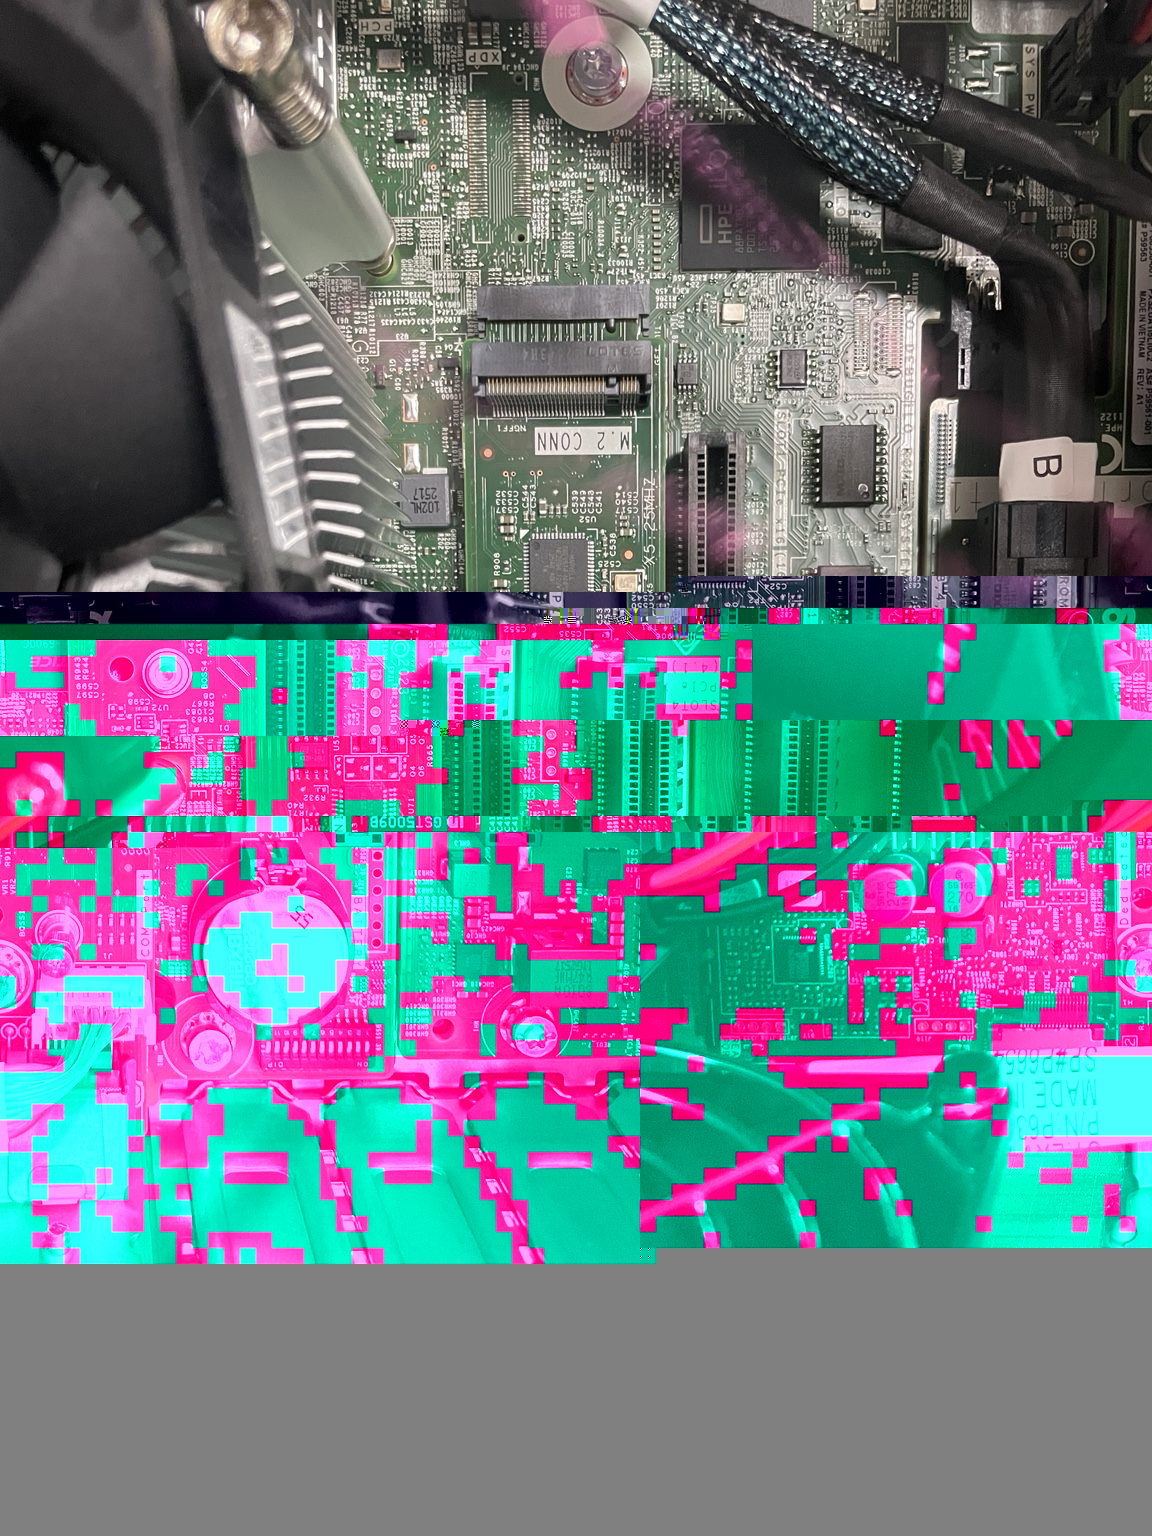
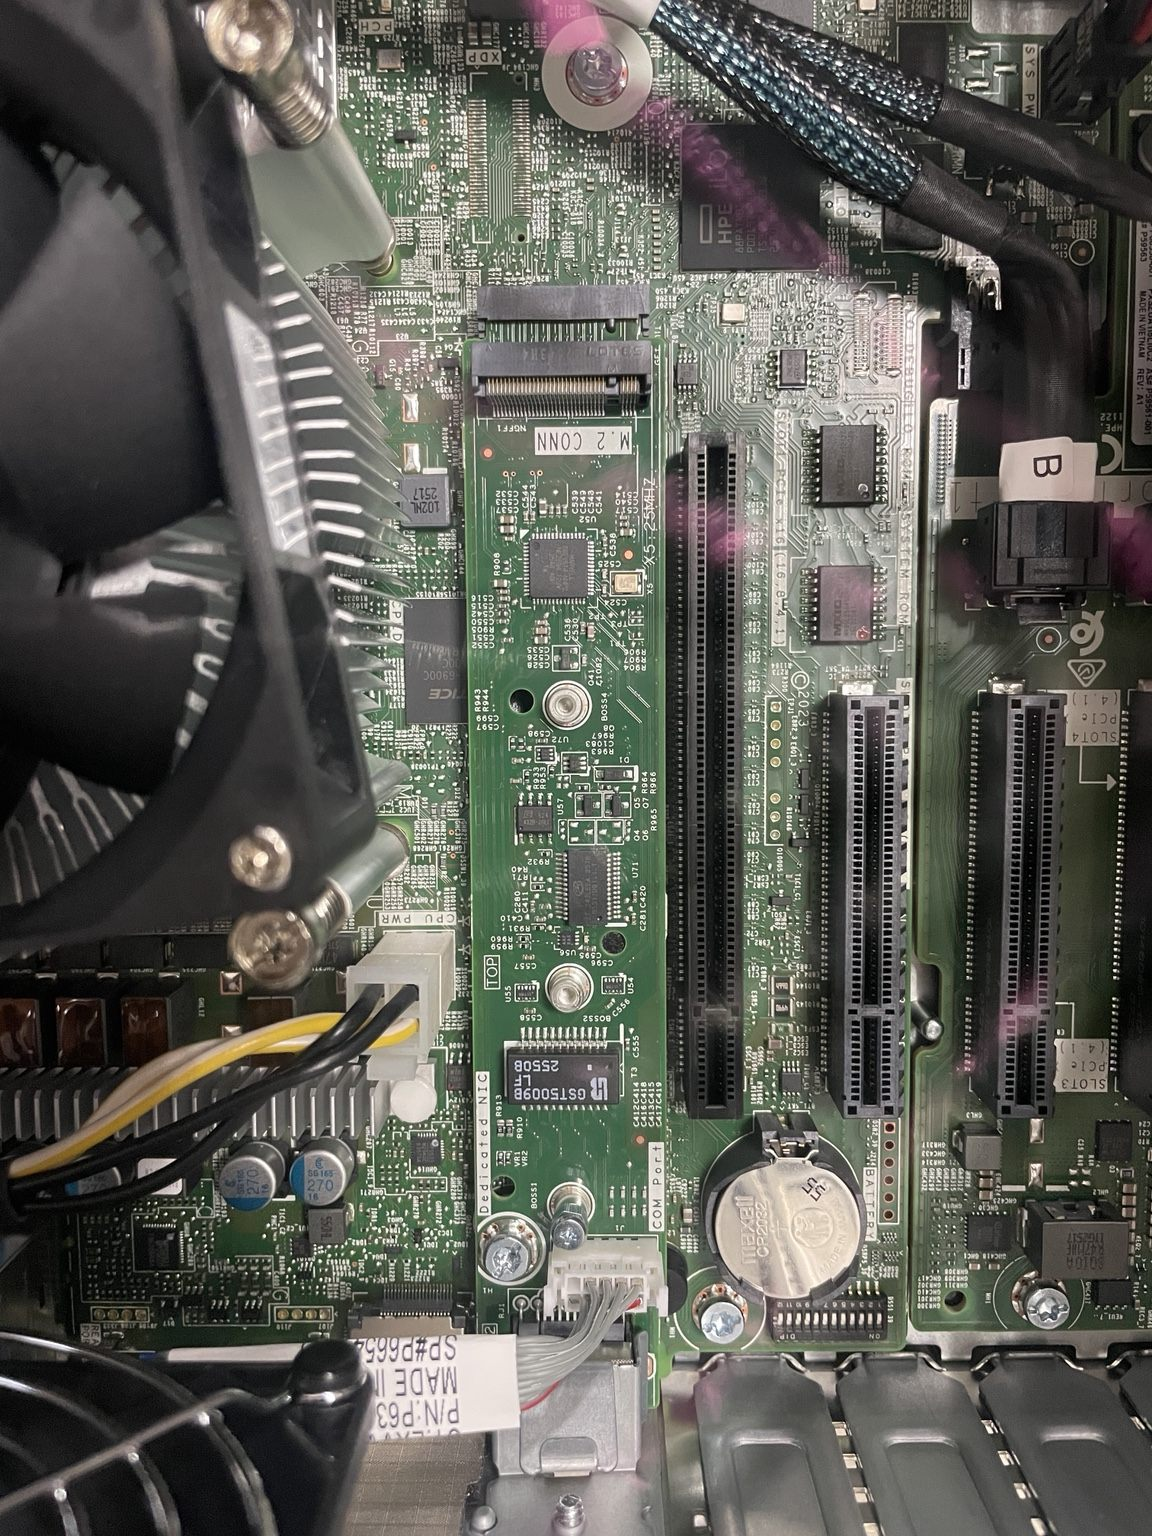
docs: sync kbwangtw knowledge base

diff --git a/docs/pve/synology-dp340-pve-cluster-validation.md b/docs/pve/synology-dp340-pve-cluster-validation.md
@@ -1,0 +1,206 @@
+---
+layout: default
+title: "Synology DP340 備份還原 PVE Cluster：SOP 驗證計畫"
+date: 2026-09-02
+categories: [PVE, Synology, Backup, DR]
+---
+
+<style>
+.kb-hero{padding:2rem;border-radius:18px;background:linear-gradient(135deg,#15324a,#245f73);color:#fff;margin:1rem 0 1.5rem}.kb-hero h1{margin:0 0 .75rem;color:#fff;line-height:1.25}.kb-hero p{margin:.4rem 0;max-width:55rem}.kb-badges{display:flex;flex-wrap:wrap;gap:.5rem;margin-top:1rem}.kb-badge{display:inline-block;padding:.3rem .65rem;border:1px solid rgba(255,255,255,.35);border-radius:999px;background:rgba(255,255,255,.1);font-size:.85rem}.kb-alert{border-left:5px solid #d97706;background:#fff7ed;padding:1rem 1.1rem;border-radius:8px;margin:1.25rem 0}.kb-alert strong{color:#9a3412}.kb-toc{background:#f5f7f8;border:1px solid #d8e0e5;border-radius:14px;padding:1rem 1.25rem;margin:1.5rem 0}.kb-toc ol{columns:2;column-gap:2rem;margin-bottom:0}.kb-grid{display:grid;grid-template-columns:repeat(3,minmax(0,1fr));gap:1rem;margin:1rem 0}.kb-card{border:1px solid #d8e0e5;border-radius:14px;padding:1rem;background:#fff;box-shadow:0 2px 8px rgba(21,50,74,.06)}.kb-card h3{margin-top:0;color:#15324a}.kb-flow{display:grid;grid-template-columns:repeat(3,minmax(0,1fr));gap:.8rem;margin:1rem 0}.kb-flow>div{padding:1rem;border-radius:12px;background:#eef5f7;border-top:4px solid #245f73}.test-card{border:1px solid #d8e0e5;border-radius:16px;margin:1.25rem 0;overflow:hidden}.test-head{display:flex;align-items:center;gap:.8rem;background:#15324a;color:#fff;padding:1rem 1.2rem}.test-num{display:grid;place-items:center;min-width:2.2rem;height:2.2rem;border-radius:50%;background:#fff;color:#15324a;font-weight:700}.test-body{padding:1.1rem 1.25rem}.test-body h4{margin-bottom:.35rem}.verify-tag{display:inline-block;background:#fff3cd;color:#664d03;border:1px solid #ffecb5;border-radius:6px;padding:.25rem .5rem;font-size:.85rem;font-weight:600}.result-table{display:block;overflow-x:auto;white-space:nowrap}.checkline{letter-spacing:.08em}.kb-signoff{display:grid;grid-template-columns:repeat(3,1fr);gap:1rem;margin-top:1.5rem}.kb-signoff>div{border-bottom:1px solid #666;padding:1.2rem .25rem .25rem}.print-only{display:none}@media(max-width:760px){.kb-grid,.kb-flow,.kb-signoff{grid-template-columns:1fr}.kb-toc ol{columns:1}.kb-hero{padding:1.35rem}.test-head{align-items:flex-start}.result-table{font-size:.88rem}}@media print{.site-header,.site-footer,.kb-toc{display:none!important}.wrapper{max-width:none!important}.kb-hero{background:none!important;color:#000;border:2px solid #333;padding:1rem}.kb-hero h1{color:#000}.kb-card,.test-card{box-shadow:none;break-inside:avoid}.test-head{background:#eee!important;color:#000}.print-only{display:block}a{color:#000;text-decoration:none}.result-table{white-space:normal;font-size:9pt}h2{break-after:avoid}}
+</style>
+
+<div class="kb-hero">
+  <h1>Synology DP340 備份還原 PVE Cluster<br>SOP 驗證計畫</h1>
+  <p>適用於 3-Node Proxmox VE Cluster；每個 Node 配置 2 張 2.5GbE，其中 Service／Management 獨立，Backup Data 與 Corosync 共用另一張介面。</p>
+  <div class="kb-badges"><span class="kb-badge">Backup & Recovery</span><span class="kb-badge">Network Isolation</span><span class="kb-badge">HA / DR Drill</span><span class="kb-badge">Ransomware Readiness</span></div>
+</div>
+
+<div class="kb-alert"><strong>文件定位：</strong>本頁是上線前驗證計畫，不是產品功能保證。畫面名稱、支援的 Proxmox VE 版本、API 權限、CBT／去重、Instant Restore 傳輸協定、背景回遷、不可變備份與管理員刪除限制，均需依 <strong>Synology ActiveProtect / Proxmox VE 實際版本驗證</strong>，並以當版官方文件與實機 PoC 為準。</div>
+
+<nav class="kb-toc" aria-label="章節導覽">
+<strong>章節導覽</strong>
+<ol>
+  <li><a href="#scope">驗證範圍與準入條件</a></li>
+  <li><a href="#network">雙介面拓撲與邏輯分流</a></li>
+  <li><a href="#prepare">前置準備與串接 SOP</a></li>
+  <li><a href="#tests">五個驗證測試案例</a></li>
+  <li><a href="#signoff">Sign-off 驗證結果</a></li>
+  <li><a href="#operations">長期維運與容量管理</a></li>
+</ol>
+</nav>
+
+<h2 id="scope">1. 驗證範圍與準入條件</h2>
+
+本計畫驗證「Service／Management 使用獨立 2.5GbE，Backup Data 與 Corosync 共用另一張 2.5GbE」的設計，並量測共享介面壅塞時的叢集穩定性、備份、增量、還原與防勒索控制。執行破壞性測試前，須取得變更核准並確認測試 VM 可刪除／可中斷。
+
+| 準入檢查 | 通過條件 |
+|---|---|
+| PVE Cluster | 3 節點 online、`pvecm status` 顯示 quorate、無既存 Corosync 告警 |
+| 儲存與網路 | 目標 storage 健康；兩張 2.5GbE 的 VLAN／路由／ACL、共享介面的 QoS 與速率限制已記錄 |
+| DP340 / APM | 韌體、APM 版本、授權與 Proxmox VE 相容性已確認 |
+| 回復點 | 3 台測試 VM 均已標記；含 Windows／Linux，且無正式服務依賴 |
+| 安全與稽核 | Token Secret 不進入文件；已啟用時間同步、工作與系統日誌 |
+| 回復方案 | 刪除／關機演練具有回復步驟、停止條件、聯絡人與維護窗口 |
+
+<h2 id="network">2. 雙 2.5GbE 拓撲與 Data／Corosync 邏輯分流</h2>
+
+<div class="kb-alert"><strong>架構重點：</strong>PVE Node 的第二張網卡雖接到 10G 交換器，但網卡本身只有 2.5GbE，因此單一 Node 的實際線速上限仍約為 2.5Gbps，且 Backup Data 與 Corosync 會競爭同一條實體連線。此架構沒有 Data／Corosync 的實體隔離，必須用 VLAN、QoS、備份速率限制與錯峰排程保護叢集心跳。</div>
+
+<div class="kb-flow">
+  <div><strong>NIC 1 — Service / Management</strong><br>PVE 2.5GbE 接 2.5G 交換器；承載 VM Service、PVE 管理與一般維運流量。</div>
+  <div><strong>NIC 2 — Backup Data</strong><br>PVE 2.5GbE 接 10G 交換器；以 Data VLAN／IP 連接 DP340。Node 端上限仍為 2.5Gbps。</div>
+  <div><strong>NIC 2 — Corosync</strong><br>與 Backup Data 共用實體介面及上行，但使用獨立 VLAN／子網；需以 QoS 優先保障心跳。</div>
+</div>
+
+```text
+每個 PVE Node
+  ├─ NIC 1：2.5GbE ── 2.5G Switch ── Service / Management VLAN
+  └─ NIC 2：2.5GbE ── 10G Switch
+                         ├─ Backup Data VLAN ── DP340 10G 介面
+                         └─ Corosync VLAN ───── PVE Cluster 心跳
+
+注意：交換器側是 10G，不會把 PVE 的 2.5GbE NIC 變成 10Gbps。
+Data 與 Corosync 雖使用不同 VLAN，仍共用同一張 NIC 與 2.5Gbps 頻寬。
+```
+
+<div class="kb-grid">
+  <div class="kb-card"><h3>VLAN 與路由</h3>Data 與 Corosync 使用不同 VLAN／子網；NIC 2 不設定非預期 default route。以路由表、VLAN tag 與實際連線來源驗證。</div>
+  <div class="kb-card"><h3>QoS 與限速</h3>在交換器與可用的主機／備份端設定 Corosync 高優先級；備份先以低於 2.5Gbps 的保守上限測試，再逐步提高。</div>
+  <div class="kb-card"><h3>Corosync 基線</h3>備份前後比對 latency、retransmit、packet loss 與 quorum；發生節點不穩或仲裁異常立即停止並降低備份並行度／頻寬。</div>
+</div>
+
+> 「備份走 Data VLAN」須以介面流量、VLAN、連線來源／目的位址與路由紀錄共同證明；僅在 APM 輸入 Data IP 不足以作為證據。VLAN 可分隔廣播域與政策，但無法消除共用 NIC 的頻寬競爭。
+
+<h2 id="prepare">3. 前置準備與串接 SOP</h2>
+
+### 3.1 建立 PVE API Token 最小權限
+
+1. 在 PVE Web UI 進入 **Datacenter → Permissions → Roles**。
+2. 建立專用角色，例如 `DP340-Backup-Role`；以當版整合文件所列權限為基準。初始候選權限可包含 `VM.Backup`、`VM.Audit`、`Datastore.Audit`／`Datacenter.Audit`、`Sys.Audit`，但名稱與必要範圍須以實際 PVE 版本確認。
+3. 在 **Users** 建立專用服務帳號，例如 `dp340-backup@pve`，不使用 `root@pam`。
+4. 在 **API Tokens** 產生 Token。只在密碼庫保存 Token ID 與 Secret；Secret 通常只顯示一次。
+5. 將角色套用在最小必要路徑，並確認「Privilege Separation」設定是否影響 Token 權限繼承。
+6. 先以唯讀／探索操作測試，再執行備份。若缺權限，只補足錯誤訊息所證實的必要權限，不直接授予 Administrator。
+
+<span class="verify-tag">需依 Synology ActiveProtect / Proxmox VE 實際版本驗證</span> DP340 所需的精確權限集合、是否支援 API Token、Token 格式與叢集探索行為。
+
+### 3.2 設定 DP340 與 APM 串接
+
+1. 從 Service／Management 網路登入 ActiveProtect Manager。
+2. 在 DP340 的 10G 介面配置 Data 網段靜態 IP；檢查 MTU、DNS、NTP、路由與防火牆。PVE Node 端仍以 2.5GbE 連線。
+3. 在保護來源新增 Proxmox VE；輸入 PVE 節點的 **Data 網段 IP** 與專用 Token。
+4. 驗證 TLS 憑證／指紋，不以永久關閉驗證作為正式方案。
+5. 確認可探索預期的 3 個節點與測試 VM，且沒有非預期資產。
+6. 在 PVE 與交換器側確認實際 API 與資料連線使用正確介面；將截圖、時間與介面計數器納入證據。
+
+<span class="verify-tag">需依 Synology ActiveProtect / Proxmox VE 實際版本驗證</span> APM 選單名稱、Proxmox VE 保護來源支援版本、叢集自動探索方式及憑證驗證流程。
+
+<h2 id="tests">4. 五個驗證測試案例</h2>
+
+<section class="test-card"><div class="test-head"><span class="test-num">01</span><strong>2.5G 首次全備份與共享 Corosync 壓力測試</strong></div><div class="test-body">
+<h4>目的</h4>證明備份資料使用 NIC 2 的 Data VLAN，並確認與其共用實體介面的 Corosync 在備份負載下仍穩定。
+<h4>步驟</h4>
+1. 從每個節點選 1 台測試 VM；Windows 若採應用程式一致性，先確認 VSS 狀態與產品支援方式。
+2. 記錄備份前 `pvecm status`、Corosync 延遲／丟包、介面計數器及 storage I/O。
+3. 先限制單一備份工作與保守頻寬，手動執行首次備份；同時監看 PVE 共用 NIC、Data／Corosync VLAN、DP340 10G NIC 與交換器埠。穩定後才逐步增加負載。
+4. 完成後再取一次叢集、介面、備份工作與容量證據。
+<h4>判定</h4>備份成功；主要流量出現在 Data VLAN；Corosync 無新增告警、quorum 變化或可歸因於測試的延遲／丟包。吞吐量以 2.5GbE Node 端、協定開銷與 storage 實測解釋，不以 10G 交換器線速作為目標。
+<h4>記錄</h4>邏輯資料量、實際傳輸量、開始／結束時間、平均／峰值 Gbps、DP340 寫入量、Corosync latency／loss、工作 ID。
+</div></section>
+
+<section class="test-card"><div class="test-head"><span class="test-num">02</span><strong>增量備份、異動區塊與去重</strong></div><div class="test-body">
+<h4>目的</h4>量測第二次備份的傳輸量與容量節省，不預設 CBT 或全域去重一定適用。
+<h4>步驟</h4>
+1. 在 3 台測試 VM 寫入可校驗的新資料，記錄大小與 checksum。
+2. 觸發第二次備份，記錄執行時間、來源 Data NIC 傳輸量與 DP340 容量變化。
+3. 比較首次與第二次備份，並從 APM 擷取其所提供的去重／壓縮／儲存效率指標。
+<h4>判定</h4>第二次備份成功且新資料可由還原點取回；增量與容量節省比率採實測數據。<span class="verify-tag">需依 Synology ActiveProtect / Proxmox VE 實際版本驗證</span> CBT、全域去重的支援範圍、統計口徑與重設條件。
+<h4>記錄</h4>異動量、傳輸量、增量時間、儲存成長量、去重／壓縮比、checksum。
+</div></section>
+
+<section class="test-card"><div class="test-head"><span class="test-num">03</span><strong>即時／快速還原與 RTO 量測</strong></div><div class="test-body">
+<h4>目的</h4>驗證當版產品可用的最快還原流程，量測「提交還原」到「服務可登入」的實際 RTO。
+<h4>步驟</h4>
+1. 先記錄原 VMID、MAC、IP、storage 與服務驗證方式。優先隔離或改用新 VMID，避免與正式網路衝突。
+2. 刪除或隔離測試 VM，於 APM 選擇當版實際提供的還原模式與 PVE 目標。
+3. 分別記錄提交、VM 可啟動、OS ready、應用服務可登入的時間。
+4. 觀察資料路徑、暫存 storage、效能與後續資料落地／回遷狀態；完成後驗證資料一致性。
+<h4>判定</h4>還原 VM 在核准的 RTO 目標內提供服務，且資料校驗成功。原始草案中的「1–2 分鐘」、「以 NFS 掛載」與「自動 Live Migration 回本地」均不是預設保證。
+<h4>必要確認</h4><span class="verify-tag">需依 Synology ActiveProtect / Proxmox VE 實際版本驗證</span> 是否支援 Instant Restore、實際協定、PVE storage 呈現方式、背景回遷是否自動，以及適用的 VM／storage／版本限制。
+</div></section>
+
+<section class="test-card"><div class="test-head"><span class="test-num">04</span><strong>跨節點完整還原</strong></div><div class="test-body">
+<h4>目的</h4>模擬 Node A 不可用，將測試 VM 完整還原至健康的 Node B 或 C。
+<h4>步驟</h4>
+1. 先確認 cluster、quorum、HA、Ceph／LVM-thin 與目標容量健康。
+2. 以核准方式關閉或隔離 Node A；不得在未評估 fencing／HA 影響時直接斷電。
+3. 從 DP340 選擇完整還原，指定健康節點、新 VMID（建議）與目標 storage。
+4. 啟動前核對 MAC、IP、bridge 與 guest 內靜態網路；啟動後驗證 OS、服務及 checksum。
+<h4>判定</h4>完整還原成功、服務網路經人工確認後正常，資料一致性通過；記錄實際 RTO／RPO。跨節點支援矩陣與網路設定保留行為 <span class="verify-tag">需依 Synology ActiveProtect / Proxmox VE 實際版本驗證</span>。
+</div></section>
+
+<section class="test-card"><div class="test-head"><span class="test-num">05</span><strong>不可變備份與權限邊界</strong></div><div class="test-body">
+<h4>目的</h4>確認鎖定期間內，不同權限角色可執行／不可執行的刪除、縮短保留期與系統管理行為。
+<h4>步驟</h4>
+1. 若當版 APM 提供不可變設定，在測試策略設 7 天；取得一個明確標示鎖定到期日的還原點。
+2. 分別以備份操作員、一般管理員與最高權限角色測試刪除，並嘗試縮短保留期；不要測試重設、抹除或破壞設備。
+3. 保存 UI 訊息、audit log、事件代碼、帳號角色與時間戳。
+4. 驗證遭拒後還原點仍可列出並可執行測試還原。
+<h4>判定</h4>結果必須逐角色記錄。不得僅因一般 UI 刪除被拒，就推論遭入侵的最高權限管理員、設備重設或其他控制面也無法破壞資料。
+<h4>必要確認</h4><span class="verify-tag">需依 Synology ActiveProtect / Proxmox VE 實際版本驗證</span> 不可變功能是否存在、授權／儲存限制、鎖定是否可延長或縮短、哪些角色可繞過，以及設備重設／保固維修情境的行為。
+</div></section>
+
+<h2 id="signoff">5. Sign-off 驗證結果表格</h2>
+
+<div class="result-table">
+
+| ID | 測試項目 | 驗收基準 | 實際結果／證據 | 數據記錄 | 判定 |
+|---|---|---|---|---|---|
+| 01 | 首次全備份／網路隔離 | 備份成功；流量走 Data；Corosync 穩定 | __________________ | 容量 ___ GB；時間 ___ min；平均／峰值 ___ / ___ Gbps；loss ___ | ☐ Pass ☐ Fail |
+| 02 | 增量／去重 | 新資料可還原；效率以實測呈現 | __________________ | 異動 ___ GB；傳輸 ___ GB；節省比 ___；時間 ___ min | ☐ Pass ☐ Fail |
+| 03 | 即時／快速還原 | 服務與資料驗證成功；RTO 符合核准目標 | __________________ | VM boot ___ sec；service RTO ___ sec；RPO ___ | ☐ Pass ☐ Fail |
+| 04 | 跨節點完整還原 | B／C 節點啟動；網路與 checksum 正常 | __________________ | 還原 ___ min；資料 ___ GB；checksum ______ | ☐ Pass ☐ Fail |
+| 05 | 不可變／權限邊界 | 各角色結果與 audit log 完整；還原點可用 | __________________ | 角色 ______；事件碼 ______；到期日 ______ | ☐ Pass ☐ Fail |
+
+</div>
+
+### 例外與風險接受
+
+| 未通過／條件式通過項目 | 影響 | 暫行措施 | 負責人 | 到期日 |
+|---|---|---|---|---|
+|  |  |  |  |  |
+|  |  |  |  |  |
+
+<div class="kb-signoff"><div>執行人／日期</div><div>系統負責人／日期</div><div>變更核准人／日期</div></div>
+
+<p class="print-only">文件列印時間：________________　APM 版本：________________　PVE 版本：________________</p>
+
+<h2 id="operations">6. 長期維運與容量管理建議</h2>
+
+<div class="kb-grid">
+  <div class="kb-card"><h3>錯開備份窗口</h3>Data 與 Corosync 共用 2.5GbE，預設一次只跑一個 Node 的大型備份。可先以 Node A 01:00、B 02:30、C 04:00 為假設，再依 Corosync 與吞吐實測調整。</div>
+  <div class="kb-card"><h3>容量水位</h3>建立 70% 預警、80% 處置、90% 升級機制。容量門檻與可用容量不可硬套固定 14.5 TB，應依實際型號、RAID、保留政策與當版官方規格計算。</div>
+  <div class="kb-card"><h3>定期還原</h3>備份成功不等於可還原。至少每季抽測 VM boot、應用服務與 checksum；重大升級後追加測試。</div>
+  <div class="kb-card"><h3>權限與憑證</h3>Token 放密碼庫、限制來源、定期輪替；每季檢視角色與稽核紀錄。離職／職務異動立即撤銷。</div>
+  <div class="kb-card"><h3>版本管理</h3>升級 DP340／APM／PVE 前查相容矩陣、備份設定並保留回復方案；升級後重跑探索、備份與還原 smoke test。</div>
+  <div class="kb-card"><h3>3-2-1-1-0</h3>至少 3 份資料、2 種媒體、1 份異地、1 份離線或不可變、0 個未驗證錯誤；不可變機制需與管理控制面風險一併評估。</div>
+</div>
+
+### 每月／每季檢查節奏
+
+| 頻率 | 工作 |
+|---|---|
+| 每日 | 失敗工作、容量趨勢、硬體／磁碟、告警通道、時間同步 |
+| 每週 | 隨機還原檔案、工作時窗，以及共享 2.5GbE 上的 Data／Corosync 延遲、丟包與介面錯誤 |
+| 每月 | Token／角色檢視、容量預測、韌體與相容性公告、audit log 抽查 |
+| 每季 | 完整 VM 還原、跨節點 DR 演練、RTO／RPO 重測、Runbook 更新與簽核 |
+
+## 停止條件
+
+測試期間若出現 quorum 改變、Corosync 延遲／丟包異常、節點非預期 reboot／fencing、Ceph／主要 storage 進入非預期錯誤、DP340 容量達處置門檻，或還原 VM 可能與正式 IP／MAC 衝突，應立即停止新工作並依變更計畫復原；先保留證據，不直接重跑。
+
+---
+
+**文件狀態：** 待依現場 DP340、ActiveProtect Manager 與 Proxmox VE 版本完成 PoC 後簽核。  
+**敏感資訊：** 文件與截圖不得包含 Token Secret、密碼、Private Key、完整憑證或可重用的 Session。
+

diff --git a/index.md b/index.md
@@ -8,17 +8,18 @@ title: IT Knowledge Base
 ## 最新技術紀錄
 
 - [HPE ProLiant ML30 Gen11：硬體擴充、NVMe UEFI 驗證與儲存規劃](docs/hardware/hpe/ml30-gen11/)
+- [Synology DP340 備份還原 PVE Cluster：SOP 驗證計畫](docs/pve/synology-dp340-pve-cluster-validation/)
 - [Proxmox VE / Proxmox Backup Server 繁體中文通知模板安裝](docs/pve/proxmox-zh-tw-notification/)
 - [ProxCenter + PBS Restore／DR SOP：LXC 實戰紀錄](docs/pve/proxcenter-pbs-restore-dr-runbook/)
 - [ProxCenter 執行 PVE／Ceph Rolling Update：疑難排解紀錄](docs/pve/proxcenter-ceph-rolling-update/)
 
 ## 文件分類
 
-- **PVE**：[繁體中文通知模板安裝](docs/pve/proxmox-zh-tw-notification/)、叢集、HA、虛擬機、儲存與升級
+- **PVE**：[DP340 備份還原驗證計畫](docs/pve/synology-dp340-pve-cluster-validation/)、[繁體中文通知模板安裝](docs/pve/proxmox-zh-tw-notification/)、叢集、HA、虛擬機、儲存與升級
 - **PBS**：[繁體中文通知模板安裝](docs/pve/proxmox-zh-tw-notification/)、[備份、Restore 與 DR 演練](docs/pve/proxcenter-pbs-restore-dr-runbook/)、驗證與保留政策
 - **ProxCenter**：資產管理、SSH 整合、[Rolling Update](docs/pve/proxcenter-ceph-rolling-update/) 與 [Restore／DR](docs/pve/proxcenter-pbs-restore-dr-runbook/)
 - **Ceph**：健康狀態、OSD、維護旗標與復原
-- **Synology**：儲存、快照、備份與網路服務
+- **Synology**：[DP340 × PVE Cluster 備份還原驗證](docs/pve/synology-dp340-pve-cluster-validation/)、儲存、快照、備份與網路服務
 - **Network**：VLAN、路由、防火牆、DNS 與監控
 - **Hardware / HPE**：[ProLiant ML30 Gen11 硬體擴充、NVMe UEFI 驗證與儲存規劃](docs/hardware/hpe/ml30-gen11/)
 
